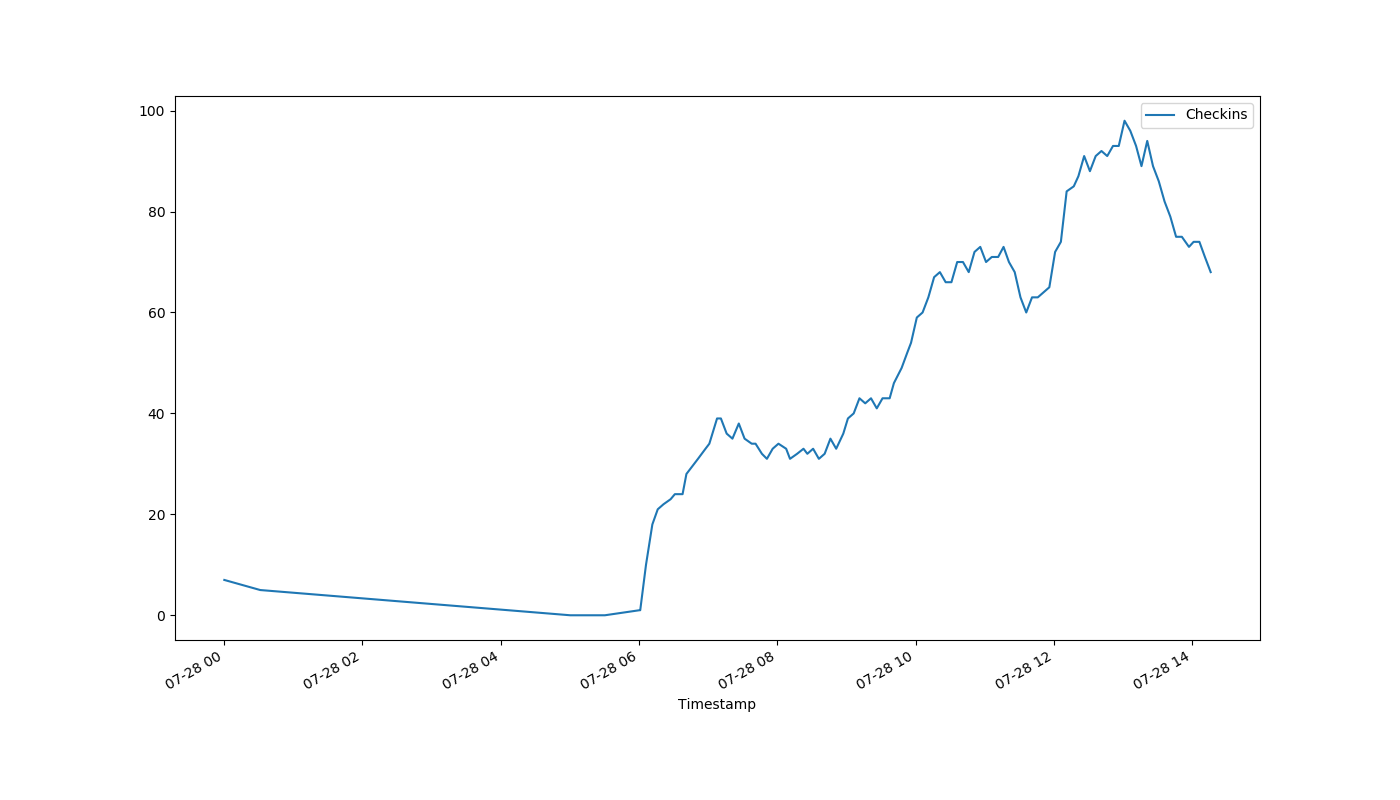
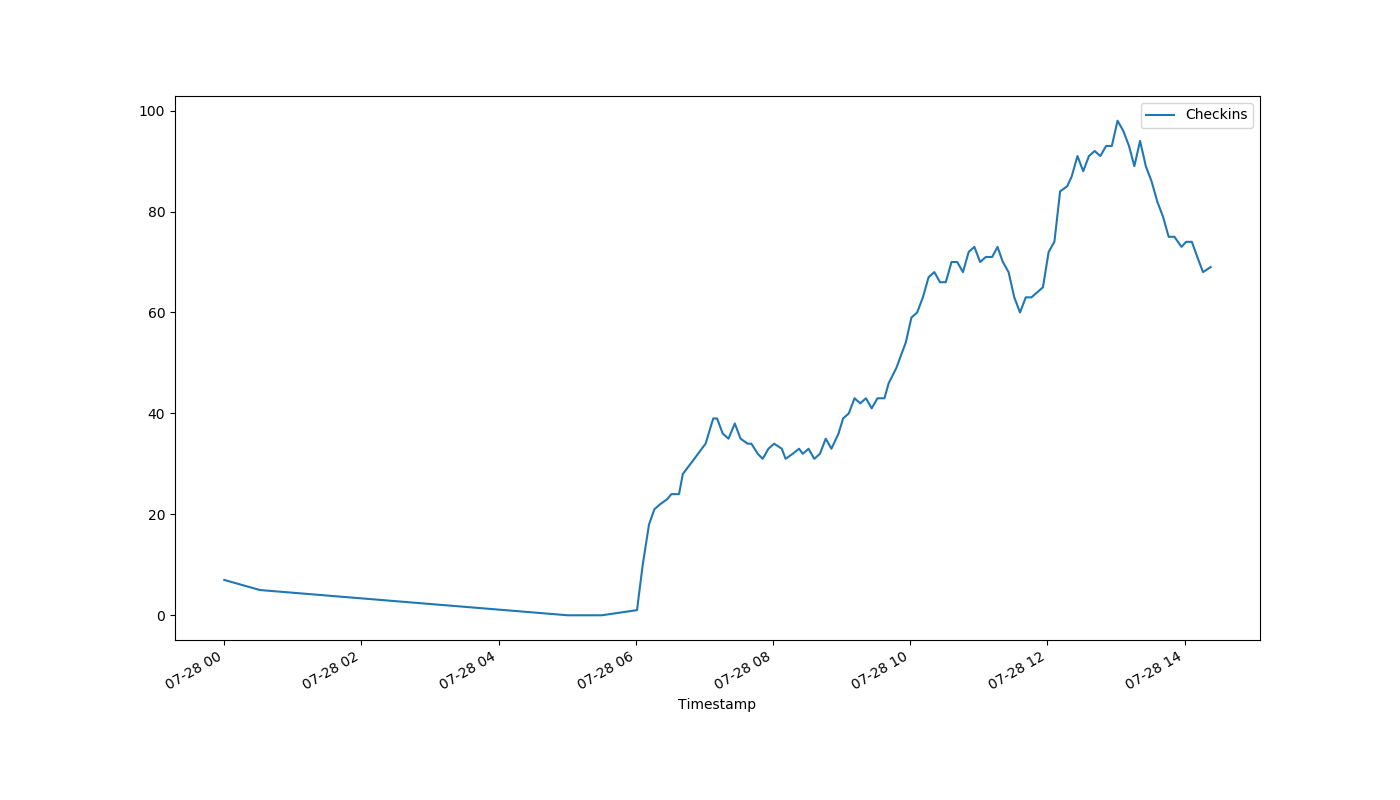
auto-Jul-28-14:24:42

diff --git a/index.html b/index.html
@@ -1,1 +1,1 @@
-<!DOCTYPE html><html><head><meta http-equiv="refresh" content="30"><link rel='stylesheet' href='holmcurrent.css'></head><body><p id='count'>-1</p><div id='graph-wrap'><img id='graph' src='holmgraph-Jul-28.png'></div><p id='updated'>Last updated 14:22:05 / 14:21:24</p></body></html>
+<!DOCTYPE html><html><head><meta http-equiv="refresh" content="30"><link rel='stylesheet' href='holmcurrent.css'></head><body><p id='count'>69</p><div id='graph-wrap'><img id='graph' src='holmgraph-Jul-28.png'></div><p id='updated'>Last updated 14:23:05 / 14:22:44</p></body></html>
